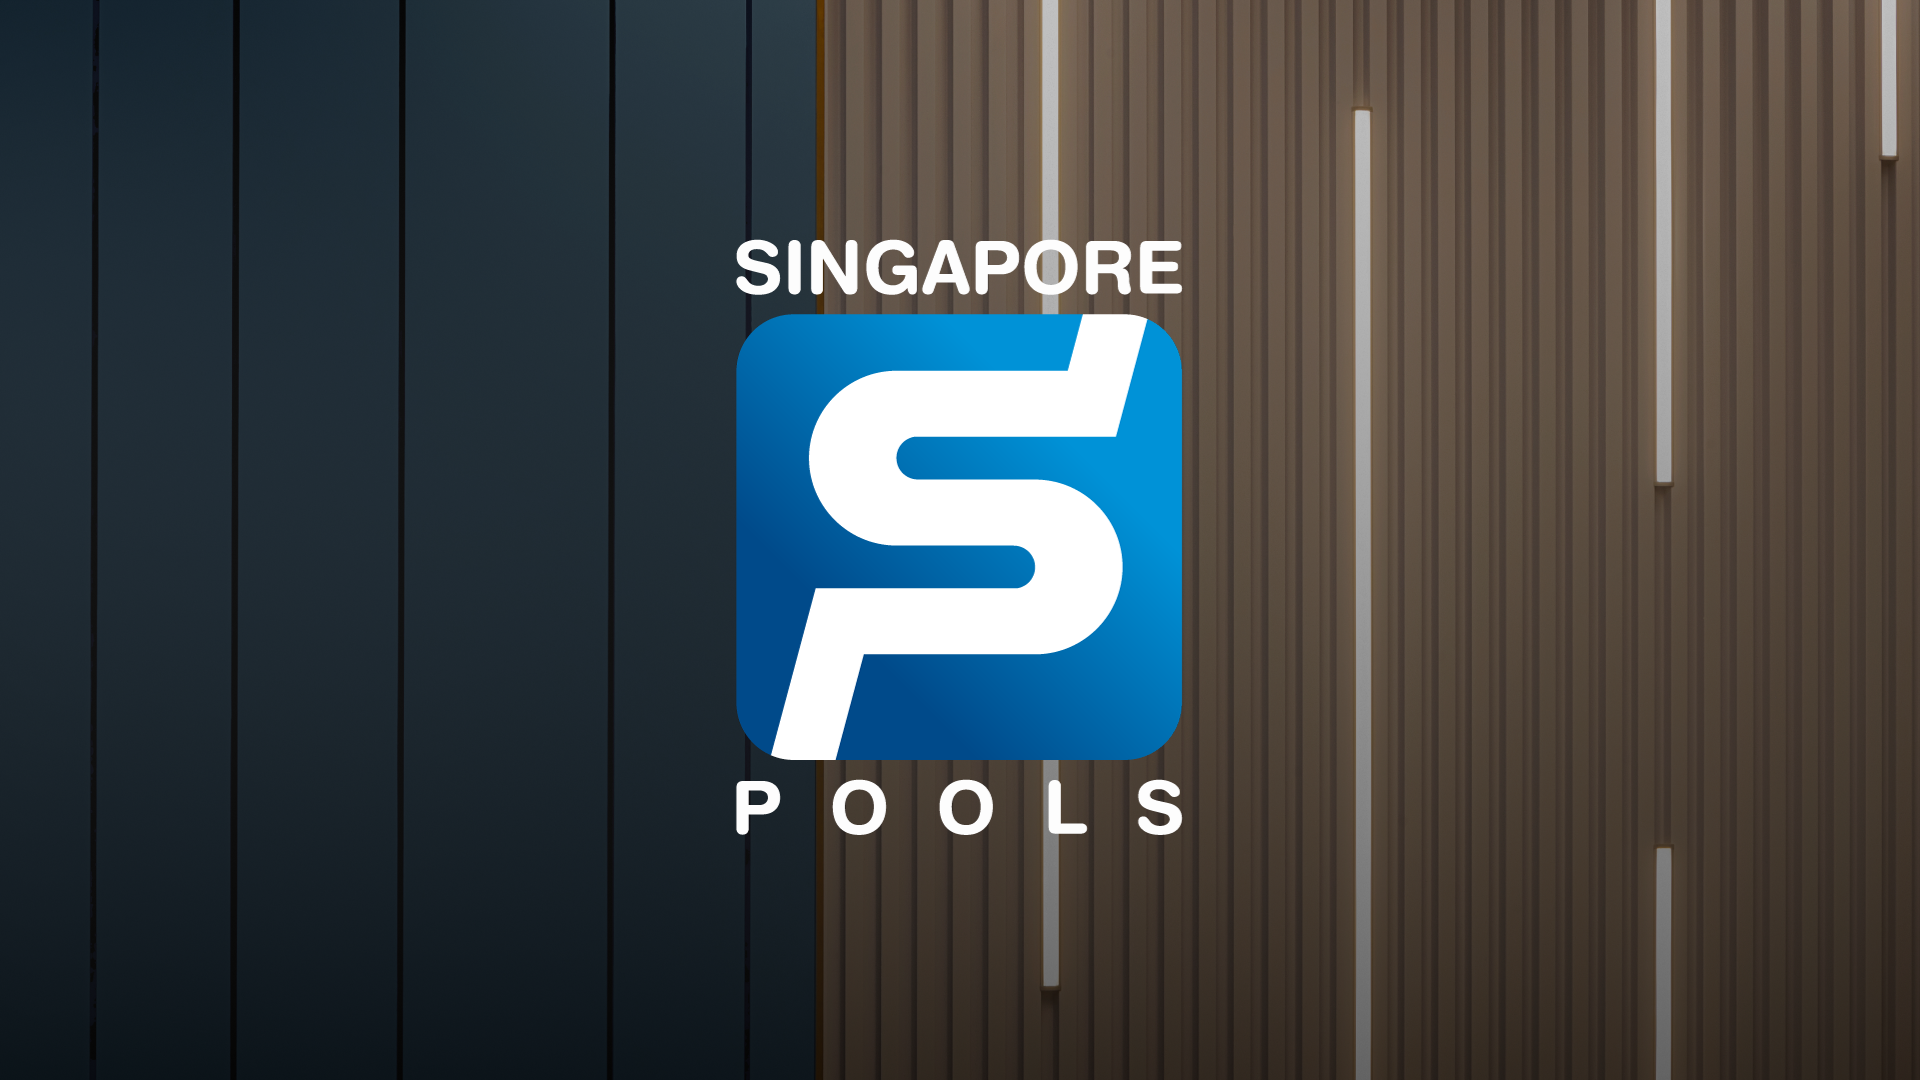
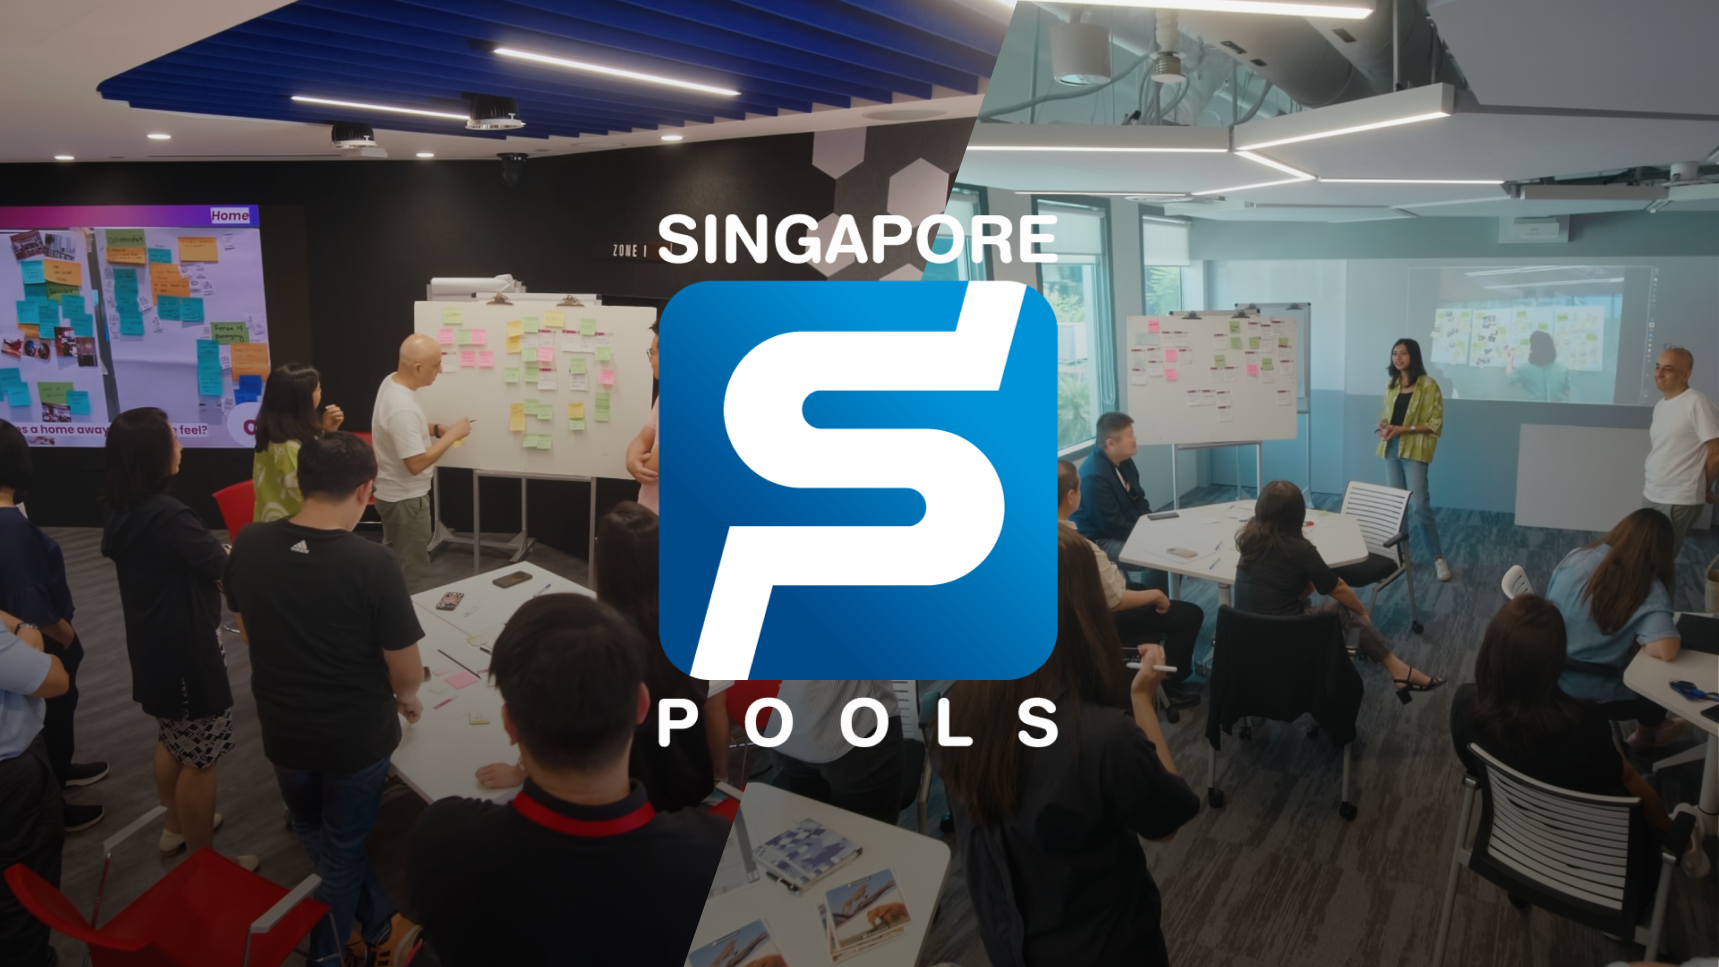
Clean up project titles, update images, fix memory leaks
- Remove category suffixes from project titles (Work page + project detail pages)
- Add Type field to project detail pages (title case)
- Remove Singapore Pools logo image, renumber remaining
- Update featured homepage images
- Fix memory leaks: clean up event listeners and intervals on route change
- Remove unused createSlug function and console.log noise
- Fix duplicate footer navigation listener registration

diff --git a/src/main.js b/src/main.js
@@ -211,7 +211,8 @@ async function initApp() {
             
             // Update on window resize to handle all breakpoints
             window.addEventListener('resize', updateColorBendsHeight);
-            
+            registerRouteCleanup(() => window.removeEventListener('resize', updateColorBendsHeight));
+
             mountColorBends('color-bends-container');
           } catch (error) {
             console.error('Failed to mount ColorBends:', error);
@@ -299,24 +300,24 @@ async function initApp() {
   function getProjectTitle(projectId) {
     const projects = {
       // Brand Design
-      'first-advisory-brand': 'FIRST ADVISORY > BRAND DESIGN',
-      'gobrainly': 'GOBRAINLY > BRAND IDENTITY',
-      'lumiere-consulting-brand': 'LUMIERE CONSULTING > BRAND DESIGN',
+      'first-advisory-brand': 'FIRST ADVISORY',
+      'gobrainly': 'GOBRAINLY',
+      'lumiere-consulting-brand': 'LUMIERE CONSULTING',
       // Product Design
-      'dtrax-product': "D'TRAX > WEBSITE DESIGN & DEVELOPMENT",
-      'first-advisory-product': 'FIRST ADVISORY > WEBSITE DESIGN & DEVELOPMENT',
-      'loong-colorectal': 'LOONG COLORECTAL > WEBSITE DESIGN & DEVELOPMENT',
-      'lumiere-consulting-product': 'LUMIERE CONSULTING > WEBSITE DESIGN & DEVELOPMENT',
-      'ridm': 'RiDM > WEBSITE DESIGN & DEVELOPMENT',
+      'dtrax-product': "D'TRAX",
+      'first-advisory-product': 'FIRST ADVISORY',
+      'loong-colorectal': 'LOONG COLORECTAL',
+      'lumiere-consulting-product': 'LUMIERE CONSULTING',
+      'ridm': 'RiDM',
       // Content Production
-      // 'acw-group': 'ACW GROUP > CONTENT PRODUCTION',
-      'banking-circle': 'BANKING CIRCLE > CONTENT PRODUCTION',
-      'dtrax-mitsui': "D'TRAX X MITSUI CHEMICALS > CONTENT PRODUCTION",
-      'loong-colorectal-content': 'LOONG COLORECTAL > CONTENT PRODUCTION',
-      'singapore-pools': 'SINGAPORE POOLS > CONTENT PRODUCTION',
-      'drum-awards': 'THE DRUM AWARDS > AWARD NIGHT HIGHLIGHTS',
+      // 'acw-group': 'ACW GROUP',
+      'banking-circle': 'BANKING CIRCLE',
+      'dtrax-mitsui': "D'TRAX X MITSUI CHEMICALS",
+      'loong-colorectal-content': 'LOONG COLORECTAL',
+      'singapore-pools': 'SINGAPORE POOLS',
+      'drum-awards': 'THE DRUM AWARDS',
       // AI Products
-      'clard': 'CLARD > AI PRODUCT'
+      'clard': 'CLARD'
     };
     return projects[projectId] || '';
   }
@@ -820,12 +821,19 @@ async function initApp() {
     
     // Listen to scroll events
     window.addEventListener('scroll', onScroll, { passive: true });
-    
+
     // Also update on resize
-    window.addEventListener('resize', () => {
+    const onResize = () => {
       stickyStartScroll = null; // Reset on resize
       setTimeout(updateColorTransition, 100);
-    }, { passive: true });
+    };
+    window.addEventListener('resize', onResize, { passive: true });
+
+    // Clean up listeners on route change
+    registerRouteCleanup(() => {
+      window.removeEventListener('scroll', onScroll);
+      window.removeEventListener('resize', onResize);
+    });
   }
 
   // Initialize Contact form with Web3Forms
@@ -1003,14 +1011,13 @@ async function initApp() {
 
 // Ensure footer navigation links scroll to top
 function initFooterNavigation() {
-  // Add click handlers to footer navigation links to ensure scroll to top
   const footerLinks = document.querySelectorAll('footer a[data-route]');
   footerLinks.forEach(link => {
-    link.addEventListener('click', (e) => {
-      // Scroll to top immediately when footer link is clicked
+    // Prevent duplicate listeners
+    if (link.dataset.footerNavInit) return;
+    link.dataset.footerNavInit = 'true';
+    link.addEventListener('click', () => {
       window.scrollTo({ top: 0, behavior: 'auto' });
-      document.documentElement.scrollTop = 0;
-      document.body.scrollTop = 0;
     });
   });
 }
@@ -1053,7 +1060,7 @@ function initScrollToTop() {
     });
     
     // Show/hide button based on scroll position
-    window.addEventListener('scroll', () => {
+    const onScrollForTop = () => {
       if (window.pageYOffset > 300) {
         scrollToTopBtn.style.opacity = '1';
         scrollToTopBtn.style.pointerEvents = 'auto';
@@ -1061,7 +1068,9 @@ function initScrollToTop() {
         scrollToTopBtn.style.opacity = '0.5';
         scrollToTopBtn.style.pointerEvents = 'none';
       }
-    });
+    };
+    window.addEventListener('scroll', onScrollForTop);
+    registerRouteCleanup(() => window.removeEventListener('scroll', onScrollForTop));
     
     // Initial state
     scrollToTopBtn.style.opacity = '0.5';
@@ -1077,7 +1086,6 @@ function initPortfolioScroll() {
   const imageItems = document.querySelectorAll('.portfolio-carousel-item');
   
   if (!scrollContainer || !imageItems.length) {
-    console.warn('Portfolio carousel elements not found');
     return;
   }
 
@@ -1229,11 +1237,19 @@ function initPortfolioScroll() {
   
   // Update on resize
   let resizeTimeout;
-  window.addEventListener('resize', () => {
+  const onPortfolioResize = () => {
     clearTimeout(resizeTimeout);
     resizeTimeout = setTimeout(() => {
       updatePortfolioTracking();
     }, 200);
+  };
+  window.addEventListener('resize', onPortfolioResize);
+
+  // Clean up on route change
+  registerRouteCleanup(() => {
+    stopAutoScroll();
+    window.removeEventListener('resize', onPortfolioResize);
+    clearTimeout(resizeTimeout);
   });
 }
 
@@ -1608,6 +1624,18 @@ async function initSectionOneAnimations() {
   }, 300);
 }
 
+// Global cleanup registry for route-scoped listeners/intervals
+let routeCleanups = [];
+
+function registerRouteCleanup(fn) {
+  routeCleanups.push(fn);
+}
+
+function runRouteCleanups() {
+  routeCleanups.forEach(fn => { try { fn(); } catch(e) {} });
+  routeCleanups = [];
+}
+
 // Global references for rolodex cleanup
 let rolodexCleanup = {
   interval: null,
@@ -1635,6 +1663,7 @@ function cleanupBeliefsRolodex() {
 // Global cleanup function for page animations (called on route transitions)
 window.cleanupPageAnimations = function() {
   cleanupBeliefsRolodex();
+  runRouteCleanups();
 };
 
 // Make unmountPageScrollBlur globally available for router cleanup
@@ -1790,7 +1819,8 @@ function initNavigation() {
   
   // Update times immediately and then every minute
   updateTimes();
-  setInterval(updateTimes, 60000);
+  const timeInterval = setInterval(updateTimes, 60000);
+  registerRouteCleanup(() => clearInterval(timeInterval));
 }
 
 
@@ -2065,7 +2095,7 @@ function initUnicornStudio() {
   
   // If embed element doesn't exist, reset initialization state (page was navigated away)
   if (!embedElement) {
-    console.log('Unicorn Studio embed element not found, resetting initialization state');
+    // Embed element not found, reset initialization state
     if (window.UnicornStudio) {
       window.UnicornStudio.isInitialized = false;
     }
@@ -2074,7 +2104,7 @@ function initUnicornStudio() {
 
   // If already initialized and element exists, force refresh to get updated project
   if (window.UnicornStudio && window.UnicornStudio.isInitialized && embedElement) {
-    console.log('Unicorn Studio already initialized, forcing refresh for updated project...');
+    // Already initialized, force refresh for updated project
     // Clear any cached data and force re-initialization
     if (typeof UnicornStudio !== 'undefined' && typeof UnicornStudio.init === 'function') {
       try {
@@ -2143,10 +2173,10 @@ function initUnicornStudio() {
     const section = embedElementCheck.closest('#hero-section');
     if (section && 'IntersectionObserver' in window) {
       observer.observe(section);
-      console.log('Observing hero section for Unicorn Studio embed');
+      // Observing hero section for lazy loading
     } else {
       // Fallback: load immediately if IntersectionObserver not supported
-      console.log('IntersectionObserver not supported, loading Unicorn Studio immediately');
+      // Fallback: load immediately
       loadUnicornStudio();
     }
   }, 100);
@@ -2195,18 +2225,12 @@ function initUnicornStudio() {
               UnicornStudio.init();
               window.UnicornStudio.isInitialized = true;
               
-              // Hide branding immediately and repeatedly
+              // Hide branding immediately and periodically
               hideUnicornStudioBranding();
-              setTimeout(() => hideUnicornStudioBranding(), 100);
-              setTimeout(() => hideUnicornStudioBranding(), 500);
-              setTimeout(() => hideUnicornStudioBranding(), 1000);
-              setTimeout(() => hideUnicornStudioBranding(), 2000);
-              
-              // Keep checking periodically (store interval ID for cleanup)
               if (window.brandingInterval) {
                 clearInterval(window.brandingInterval);
               }
-              window.brandingInterval = setInterval(() => hideUnicornStudioBranding(), 2000);
+              window.brandingInterval = setInterval(() => hideUnicornStudioBranding(), 1000);
             }
           } catch (error) {
             console.error('Error calling UnicornStudio.init():', error);
@@ -2366,8 +2390,7 @@ function initUnicornStudioSectionOne(projectId) {
       // Library already loaded, just initialize this embed
       try {
         UnicornStudio.init();
-        console.log(`Unicorn Studio initialized successfully for project ${projectId}`);
-        
+
         // Hide branding
         hideUnicornStudioBranding();
         // Store interval ID for cleanup (reuse existing if present)
@@ -2395,11 +2418,14 @@ function initUnicornStudioSectionOne(projectId) {
           clearInterval(checkInit);
           try {
             UnicornStudio.init();
-            console.log(`Unicorn Studio initialized successfully for project ${projectId}`);
+            // Unicorn Studio initialized for this project
             
             // Hide branding
             hideUnicornStudioBranding();
-            setInterval(() => hideUnicornStudioBranding(), 1000);
+            if (window.brandingInterval) {
+              clearInterval(window.brandingInterval);
+            }
+            window.brandingInterval = setInterval(() => hideUnicornStudioBranding(), 1000);
           } catch (error) {
             console.error(`Error initializing Unicorn Studio for project ${projectId}:`, error);
           }

diff --git a/src/pages/Work.js b/src/pages/Work.js
@@ -15,39 +15,30 @@ export function renderWork() {
     return `/CMS/${encodedCategory}/${encodedProject}/THUMBNAIL.png`;
   };
 
-  // Helper function to create project slug
-  const createSlug = (name, category) => {
-    const baseSlug = name.toLowerCase()
-      .replace(/'/g, '')
-      .replace(/[^a-z0-9]+/g, '-')
-      .replace(/^-|-$/g, '');
-    return `${baseSlug}-${category}`;
-  };
-
   // All projects organized by category
   const projects = {
     branding: [
-      { name: "First Advisory", title: "FIRST ADVISORY > BRAND DESIGN", description: "Brand identity development", slug: 'first-advisory-brand' },
-      { name: "GoBrainly", title: "GOBRAINLY > BRAND IDENTITY", description: "Complete brand identity system", slug: 'gobrainly' },
-      { name: "Lumiere Consulting", title: "LUMIERE CONSULTING > BRAND DESIGN", description: "Brand strategy and visual identity", slug: 'lumiere-consulting-brand' }
+      { name: "First Advisory", title: "FIRST ADVISORY", description: "Brand identity development", slug: 'first-advisory-brand' },
+      { name: "GoBrainly", title: "GOBRAINLY", description: "Complete brand identity system", slug: 'gobrainly' },
+      { name: "Lumiere Consulting", title: "LUMIERE CONSULTING", description: "Brand strategy and visual identity", slug: 'lumiere-consulting-brand' }
     ],
     product: [
-      { name: "D'TRAX", title: "D'TRAX > WEBSITE DESIGN & DEVELOPMENT", description: "Digital product design and development", slug: 'dtrax-product' },
-      { name: "First Advisory", title: "FIRST ADVISORY > WEBSITE DESIGN & DEVELOPMENT", description: "Digital platform design", slug: 'first-advisory-product' },
-      { name: "Loong Colorectal", title: "LOONG COLORECTAL > WEBSITE DESIGN & DEVELOPMENT", description: "Healthcare website design", slug: 'loong-colorectal' },
-      { name: "Lumiere Consulting", title: "LUMIERE CONSULTING > WEBSITE DESIGN & DEVELOPMENT", description: "Consulting firm website design", slug: 'lumiere-consulting-product' },
-      { name: "RiDM", title: "RiDM > WEBSITE DESIGN & DEVELOPMENT", description: "Digital product design and development", slug: 'ridm' }
+      { name: "D'TRAX", title: "D'TRAX", description: "Digital product design and development", slug: 'dtrax-product' },
+      { name: "First Advisory", title: "FIRST ADVISORY", description: "Digital platform design", slug: 'first-advisory-product' },
+      { name: "Loong Colorectal", title: "LOONG COLORECTAL", description: "Healthcare website design", slug: 'loong-colorectal' },
+      { name: "Lumiere Consulting", title: "LUMIERE CONSULTING", description: "Consulting firm website design", slug: 'lumiere-consulting-product' },
+      { name: "RiDM", title: "RiDM", description: "Digital product design and development", slug: 'ridm' }
     ],
     content: [
-      // { name: "ACW Group", title: "ACW GROUP > CONTENT PRODUCTION", description: "Event coverage and content production", slug: 'acw-group' },
-      { name: "Banking Circle", title: "BANKING CIRCLE > CONTENT PRODUCTION", description: "Corporate content production", slug: 'banking-circle' },
-      { name: "D'TRAX x Mitsui Chemicals", title: "D'TRAX X MITSUI CHEMICALS > CONTENT PRODUCTION", description: "Collaborative content production", slug: 'dtrax-mitsui' },
-      { name: "Loong Colorectal", title: "LOONG COLORECTAL > CONTENT PRODUCTION", description: "Healthcare content production", slug: 'loong-colorectal-content' },
-      { name: "Singapore Pools", title: "SINGAPORE POOLS > CONTENT PRODUCTION", description: "Event coverage and content", slug: 'singapore-pools' },
-      { name: "The Drum Awards", title: "THE DRUM AWARDS > AWARD NIGHT HIGHLIGHTS", description: "Event coverage and content production", slug: 'drum-awards' }
+      // { name: "ACW Group", title: "ACW GROUP", description: "Event coverage and content production", slug: 'acw-group' },
+      { name: "Banking Circle", title: "BANKING CIRCLE", description: "Corporate content production", slug: 'banking-circle' },
+      { name: "D'TRAX x Mitsui Chemicals", title: "D'TRAX X MITSUI CHEMICALS", description: "Collaborative content production", slug: 'dtrax-mitsui' },
+      { name: "Loong Colorectal", title: "LOONG COLORECTAL", description: "Healthcare content production", slug: 'loong-colorectal-content' },
+      { name: "Singapore Pools", title: "SINGAPORE POOLS", description: "Event coverage and content", slug: 'singapore-pools' },
+      { name: "The Drum Awards", title: "THE DRUM AWARDS", description: "Event coverage and content production", slug: 'drum-awards' }
     ],
     ai: [
-      { name: "Clard", title: "CLARD > AI PRODUCT", description: "AI-powered product design", slug: 'clard' }
+      { name: "Clard", title: "CLARD", description: "AI-powered product design", slug: 'clard' }
     ]
   };
 

diff --git a/src/pages/ProjectDetail.js b/src/pages/ProjectDetail.js
@@ -245,19 +245,15 @@ export function renderProjectDetail(projectId) {
       <div class="max-w-7xl mx-auto">
         <!-- Project Header -->
         <div class="mb-8 md:mb-12">
-          <div class="mb-6 md:mb-8 flex items-center gap-2">
-            <svg class="w-4 h-4 text-vici-red" fill="none" stroke="currentColor" viewBox="0 0 24 24">
-              <path stroke-linecap="round" stroke-linejoin="round" stroke-width="2" d="M9 5l7 7-7 7"></path>
-            </svg>
-            <p class="text-xs md:text-sm text-vici-red uppercase tracking-wider">${project.category}</p>
-          </div>
-          <h1 class="text-3xl md:text-4xl lg:text-5xl xl:text-6xl font-light leading-tight text-vici-white mb-4 md:mb-6">${project.title}</h1>
           <div class="flex flex-wrap gap-4 md:gap-8 text-xs md:text-sm text-vici-white/80">
             <div>
               <span class="text-vici-white/60">Year:</span> ${project.year}
             </div>
             <div>
               <span class="text-vici-white/60">Client:</span> ${project.client}
+            </div>
+            <div>
+              <span class="text-vici-white/60">Type:</span> ${project.category.split(' ').map(w => w.charAt(0).toUpperCase() + w.slice(1).toLowerCase()).join(' ')}
             </div>
           </div>
         </div>
